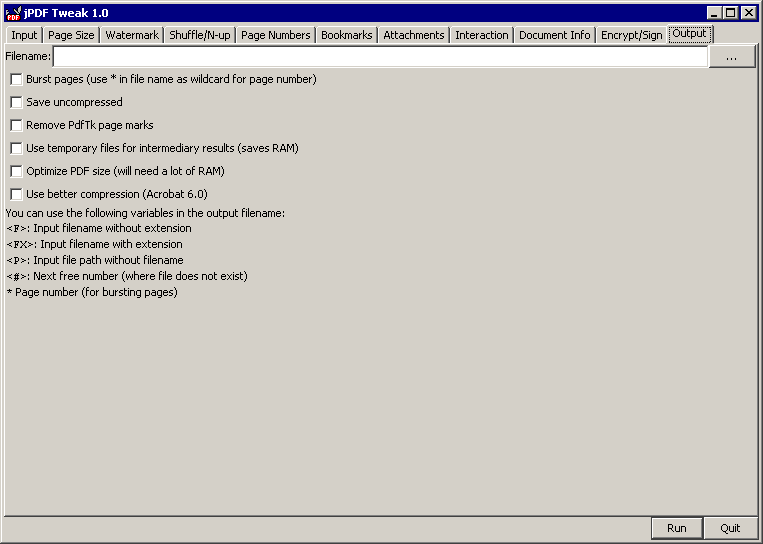
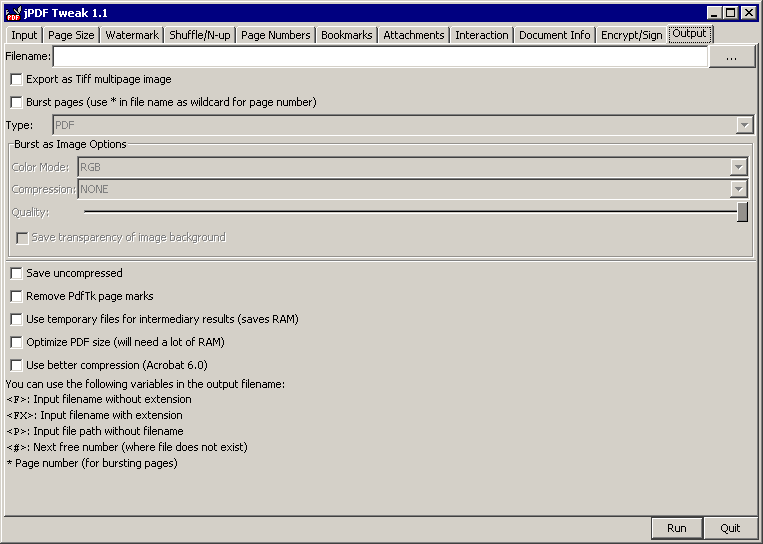
Update manual

Changed region(s): [[0.0, 0.1875, 0.9948, 0.875], [0.0301, 0.125, 0.422, 0.1562]]

diff --git a/jpdftweak/manual/index.html b/jpdftweak/manual/index.html
@@ -49,7 +49,19 @@ or running</p>
   the user password only, but it is not <i>allowed</i> to do so.</p>
 
 <p>All page numbers start with 1 (like normal people count), not with 0
-  (like programmers count).</p>
+  (like programmers count). To reverse the page order, use a From Page
+  that is larger than the To Page.</p>
+  
+<p>In case you have odd and even pages in separate documents (or even
+  more parts), you can use the Interleave feature to merge them again.</p>
+  
+<p>When combining multiple files, you might want to start each file on
+  an odd (or even) page; you can use the "Empty before" option for this.
+  In case you do not want to care if the document begins on an odd or even
+  page, you can give two numbers separated by comma, for odd and even page.
+  Therefore, <tt>0,1</tt> will make the document start on an odd page,
+  <tt>1,0</tt> on an even page, <tt>1,2</tt> will make it start on an 
+  even page with the odd page before blank, etc.</p>
 
 <p>Note that if you use the "combine multiple files" option, some options
   that are usually kept in the document are dropped, even if you only 
@@ -59,6 +71,11 @@ or running</p>
 
 <h3>The Page Size Tab</h3>
 <p><img src="shot02.png" width="763" height="544" alt="Page Size Options"></p>
+
+<p><b>Crop to</b>: This will crop the visible part of the PDF to one
+of the embedded page boxes (if present); Useful if you got a PDF intended
+for pre-press with visible crop marks and want to distribute it without
+showing the crop marks.</p>
 
 <p><b>Rotate Pages</b>: If you have a PDF that has both Portrait and Landscape pages, and
   your printer has problems in printing both, you can rotate the pages
@@ -132,6 +149,10 @@ So, for this common case, it is enough to configure the page numbers once.</p>
 
 <p>This might be the most powerful, and the most complex tab. Choose
   a preset and stick with it <tt>:-)</tt></p>
+  
+<p>If you want to print "booklets" that are thicker, you might prefer
+to shuffle blocks of 20 pages or so, then fold each of them 
+individually and stitch them together to a "book".</p>
 
 <p>If you want to build a config yourself: First specify how many
   pages each pass (each use of the template) covers. If you select 4
@@ -269,6 +290,11 @@ file.</p>
   source code. Search for "pdftk_PageNum" in the uncompressed
   PDF to find a page. When you compress a PDF again, you can remove
   these marks.</p>
+  
+<p>In case the matching JMuPdf native library is present, you can
+  also burst the document to images or save it as a multipage TIFF
+  document.</p>
+
 <hr>
-&copy; 2007-2010 Michael Schierl
+&copy; 2007-2011 Michael Schierl
 </body></html>
